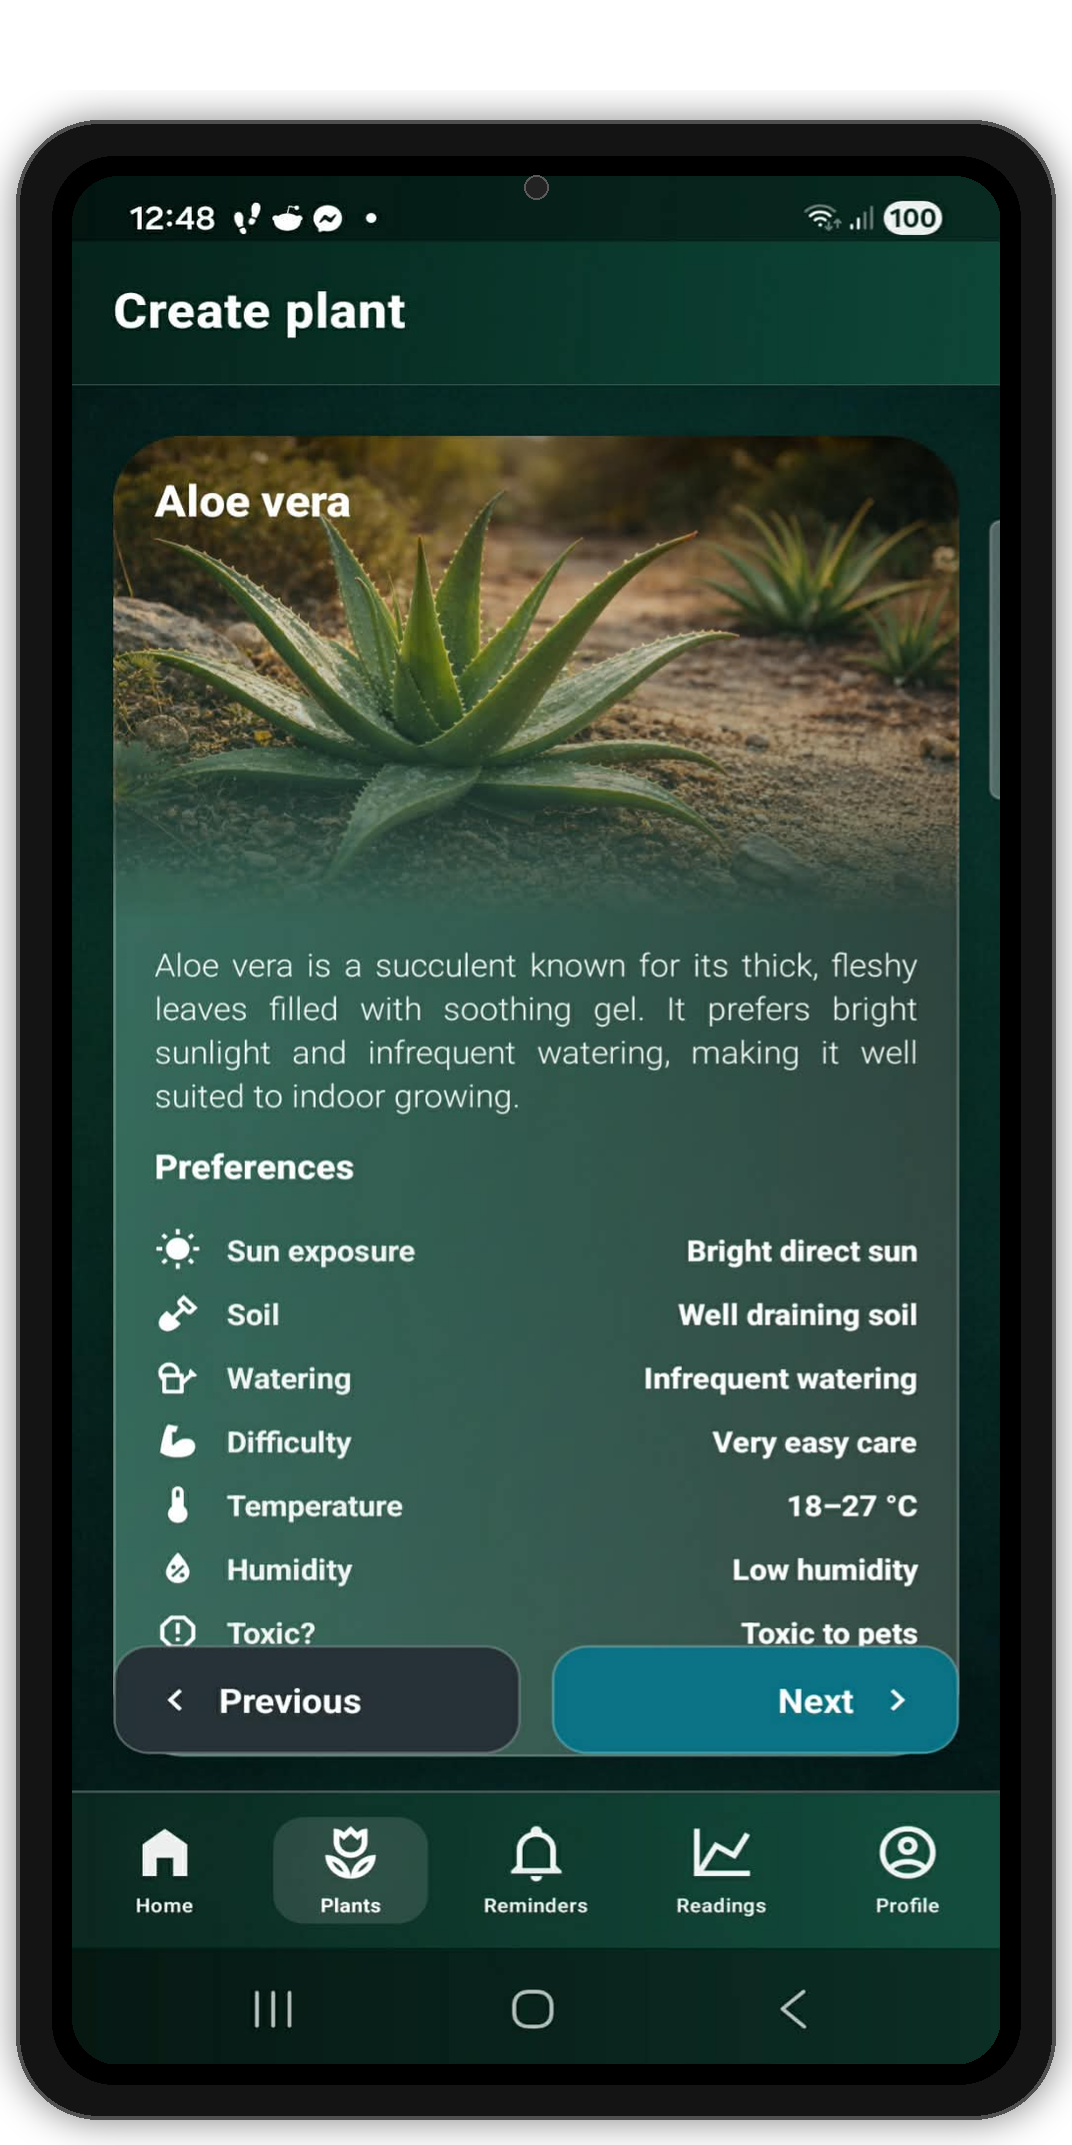
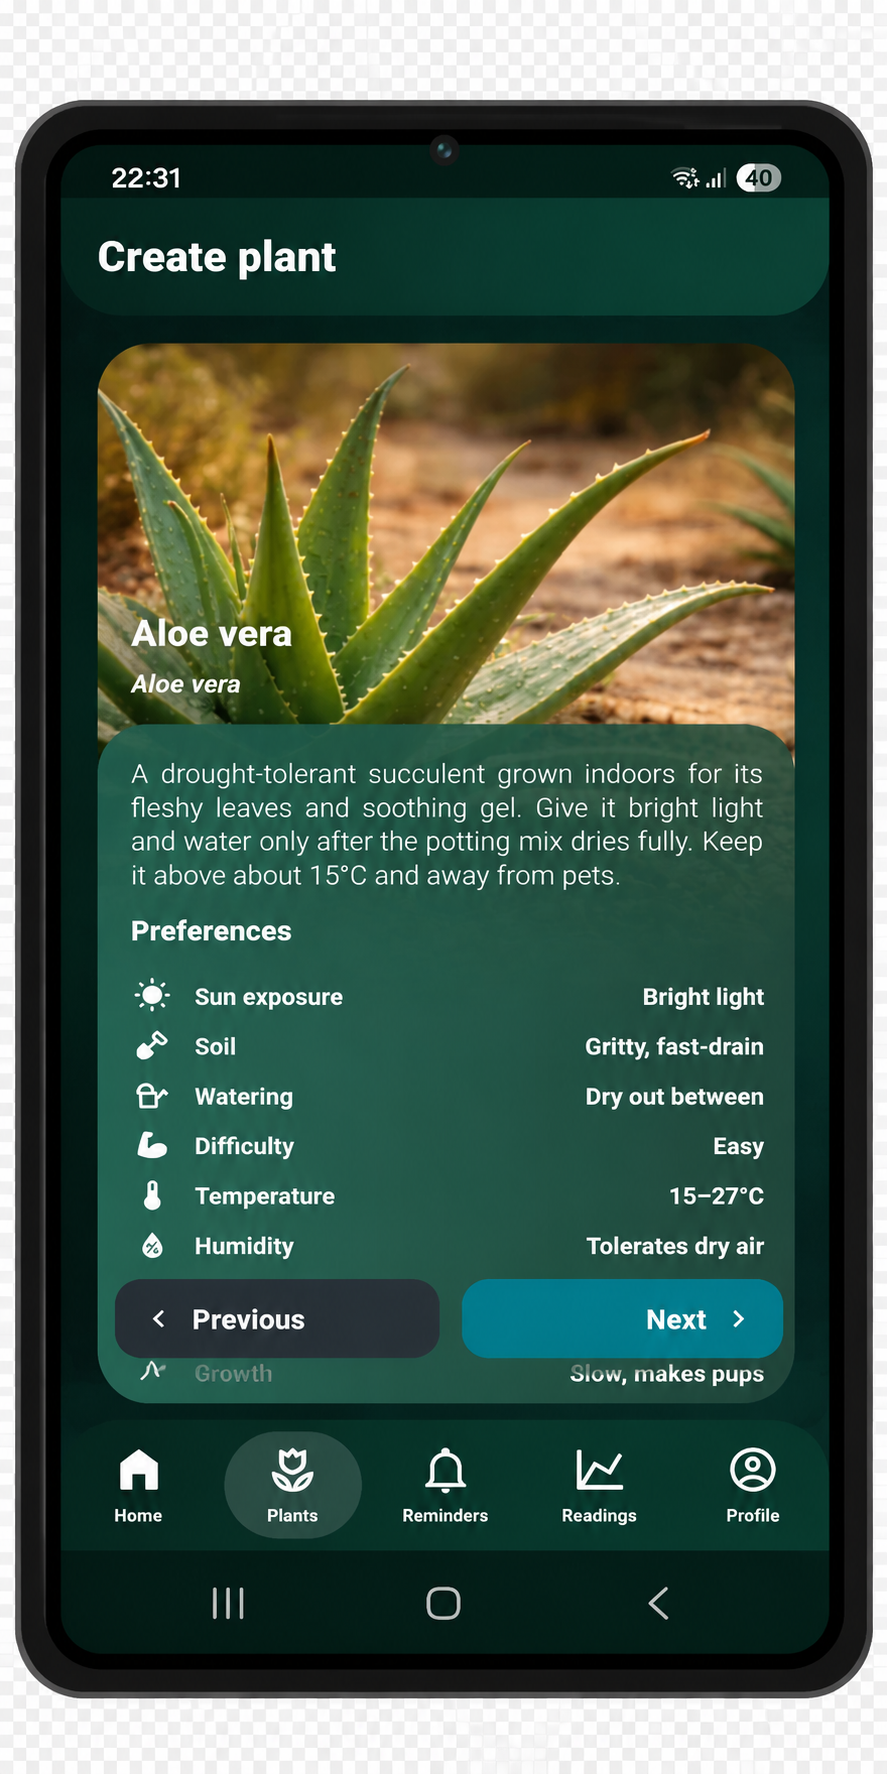
Expand website feature walkthrough with updated app screenshots

diff --git a/web/src/routes/Home/components/FeatureGrid.jsx b/web/src/routes/Home/components/FeatureGrid.jsx
@@ -5,7 +5,6 @@ import {
   IconBell,
   IconQR,
   IconRepeat,
-  IconClipboardCheck,
   IconTimer,
   IconActivity,
   IconUsers,
@@ -13,7 +12,25 @@ import {
 } from "./common/Icons";
 import createPlantImg from "../../../assets/create_plant.png";
 import readingsHistoryImg from "../../../assets/readings_history.png";
+import plantDetailsImg from "../../../assets/plant_details.png";
+import plantsImg from "../../../assets/plants.png";
 import "./FeatureGrid.css";
+
+const screenshots = {
+  create: createPlantImg,
+  plants: plantsImg,
+  details: plantDetailsImg,
+  readings: readingsHistoryImg,
+};
+const featureScreenshots = {
+  intervals: "create",
+  tasks: "plants",
+  notifications: "plants",
+  qr: "details",
+  sharing: "details",
+  levels: "plants",
+  iot: "readings",
+};
 
 function BigFeature({ title, text, icon, tone = "glass" }) {
   return (
@@ -98,7 +115,7 @@ export default function FeatureGrid() {
         title: t("featureGrid.tiles.levels.title"),
         text: t("featureGrid.tiles.levels.text"), tone: "glass"
       },
-      // IoT stays last to anchor the existing screenshot animation.
+      // Finish the walkthrough with the readings chart.
       {
         key: "iot",
         icon: <IconActivity />,
@@ -113,31 +130,31 @@ export default function FeatureGrid() {
     [t]
   );
 
-  const iotTriggerRef = useRef(null);
-  const [showReadings, setShowReadings] = useState(false);
+  const featureRefs = useRef(new Map());
+  const [activeScreenshot, setActiveScreenshot] = useState("create");
 
   useEffect(() => {
-    const el = iotTriggerRef.current;
-    if (!el) return;
-
-    const obs = new IntersectionObserver(
-      (entries) => {
-        const entry = entries[0];
-        setShowReadings(entry.isIntersecting);
+    const visible = new Set();
+    const observer = new IntersectionObserver(
+      entries => {
+        for (const entry of entries) {
+          if (entry.isIntersecting) visible.add(entry.target);
+          else visible.delete(entry.target);
+        }
+        const center = window.innerHeight * 0.45;
+        const nearest = Array.from(visible).sort((a, b) => {
+          const first = a.getBoundingClientRect();
+          const second = b.getBoundingClientRect();
+          return Math.abs(first.top + first.height / 2 - center) -
+            Math.abs(second.top + second.height / 2 - center);
+        })[0];
+        if (nearest) setActiveScreenshot(featureScreenshots[nearest.dataset.feature]);
       },
-      {
-        root: null,
-        rootMargin: "0px 0px -25% 0px",
-        threshold: 0.01
-      }
+      { rootMargin: "-20% 0px -30% 0px", threshold: [0, 0.25, 0.5, 0.75, 1] },
     );
-
-    obs.observe(el);
-    return () => obs.disconnect();
+    featureRefs.current.forEach(element => observer.observe(element));
+    return () => observer.disconnect();
   }, []);
-
-  const createAlt = t("featureGrid.images.createPlantAlt", { defaultValue: "" });
-  const readingsAlt = t("featureGrid.images.readingsHistoryAlt", { defaultValue: "" });
 
   return (
     <section className="home-section home-flow">
@@ -150,10 +167,15 @@ export default function FeatureGrid() {
 
           <div className="home-flow-stack">
             {features.map((f, idx) => {
-              const isLast = f.key === "iot";
               return (
                 <Reveal key={f.key} delay={0.03 * idx} y={18}>
-                  <div ref={isLast ? iotTriggerRef : undefined}>
+                  <div
+                    data-feature={f.key}
+                    ref={element => {
+                      if (element) featureRefs.current.set(f.key, element);
+                      else featureRefs.current.delete(f.key);
+                    }}
+                  >
                     <BigFeature title={f.title} text={f.text} icon={f.icon} tone={f.tone} />
                   </div>
                 </Reveal>
@@ -166,18 +188,16 @@ export default function FeatureGrid() {
         <div className="home-flow-right" aria-hidden="true">
           <div className="home-flow-phone">
             <div className="home-flow-phone-swap">
-              <img
-                src={createPlantImg}
-                alt={createAlt}
-                className={`home-flow-phone-img ${showReadings ? "is-hidden" : "is-visible"}`}
-                loading="lazy"
-              />
-              <img
-                src={readingsHistoryImg}
-                alt={readingsAlt}
-                className={`home-flow-phone-img ${showReadings ? "is-visible" : "is-hidden"}`}
-                loading="lazy"
-              />
+              {Object.entries(screenshots).map(([key, source]) => (
+                <img
+                  key={key}
+                  src={source}
+                  alt=""
+                  className={`home-flow-phone-img ${activeScreenshot === key ? "is-visible" : "is-hidden"}`}
+                  loading="lazy"
+                  decoding="async"
+                />
+              ))}
             </div>
           </div>
         </div>
